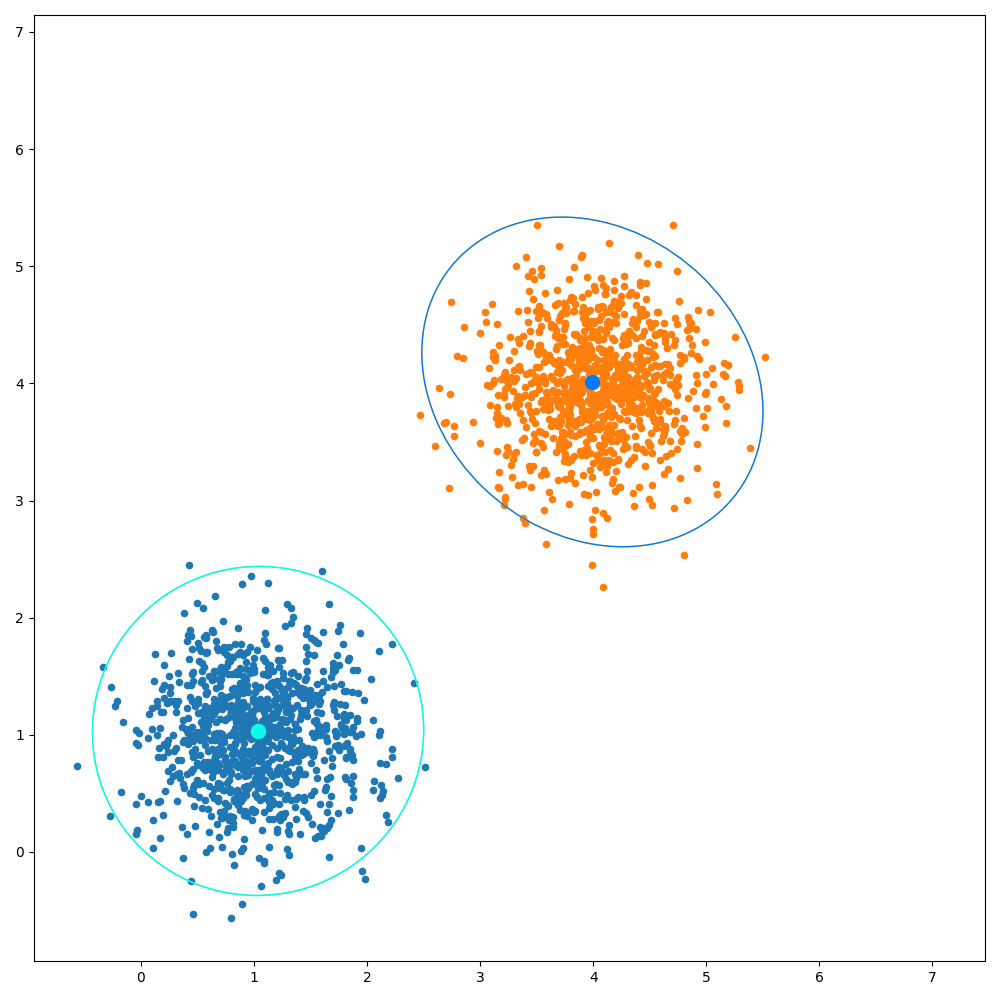
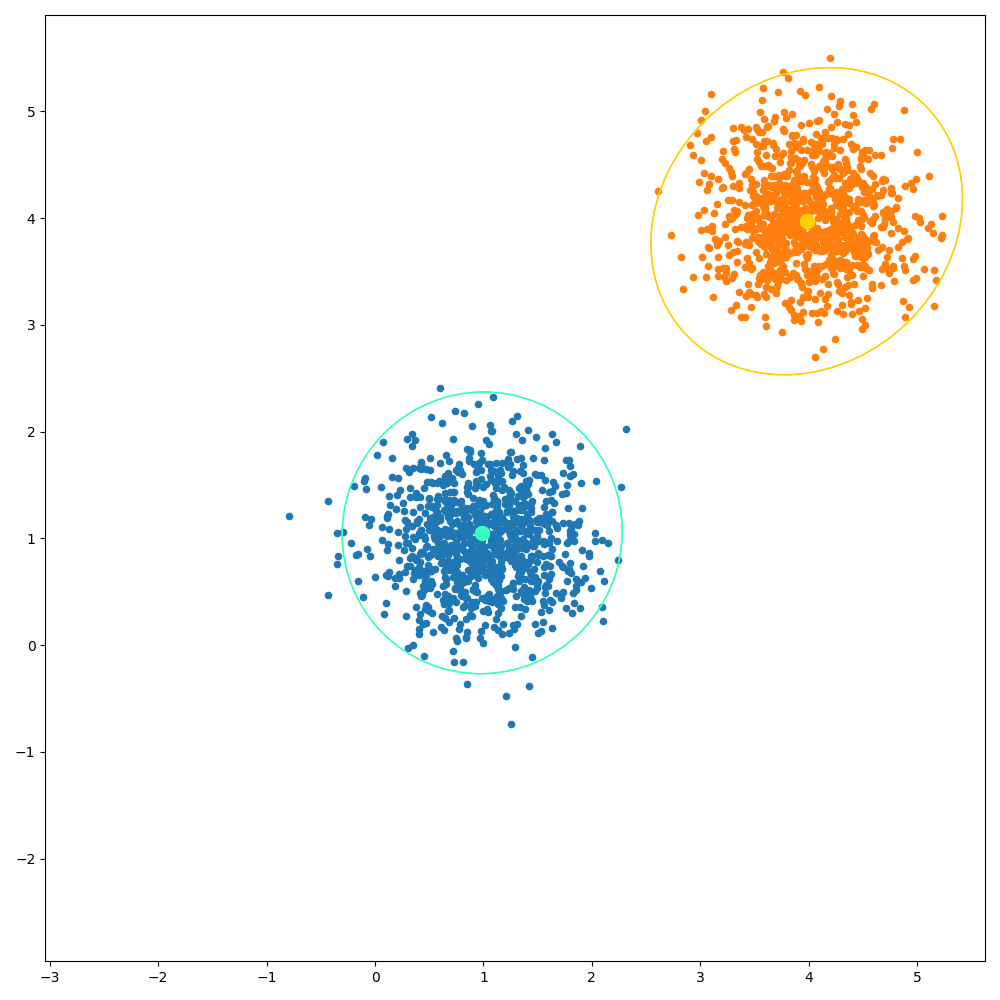
commit before Christmas break. Better utils and (dirtly) fixing import issues.

diff --git a/src/gmm.py b/src/gmm.py
@@ -11,8 +11,15 @@ import numpy as np
 import matplotlib.pyplot as plt
 
 from scipy.stats import multivariate_normal
-from typing import List, Tuple, Dict
-from utils import modify_covariance_matrix, plot_gaussians, generate_clustered_data, create_gif, remove_gaussian
+from typing import List, Tuple, Dict, Union
+
+# or runs python -m src.gmm
+if __package__ is None or __package__ == '':
+    # uses current directory visibility
+    from utils import modify_covariance_matrix, plot_gaussians, generate_clustered_data, create_gif, remove_gaussian
+else:
+    # uses current package visibility
+    from .utils import modify_covariance_matrix, plot_gaussians, generate_clustered_data, create_gif, remove_gaussian
 
 
 class GMM():
@@ -35,7 +42,8 @@ class GMM():
     def initialize(self, data: np.ndarray):
         '''
         Sets the different attributes of the class.
-        Means are weighted '''
+        Means are weighted.
+        '''
         assert len(data) == self.k
         self.dim: int = data.shape[1]
         self.coefficients: np.ndarray = np.ones(self.k) / self.k
@@ -70,7 +78,7 @@ class GMM():
         return coefficients, cs_means, cs_squares
 
 
-    def online_EM(self, states: List[np.ndarray], gamma: float, permute: bool = False):
+    def online_EM(self, states: Union[np.ndarray, List[np.ndarray]], gamma: float, permute: bool = False):
         if permute:
             states = self.rng.permutation(states)
 
@@ -91,8 +99,10 @@ class GMM():
 
     def save(self, filepath: str):
         filepath = filepath.split('.json')[0]
+        configuration = dict()
         # attributes
-        configuration = {p: p for p in [self.k, self.random_seed]}
+        configuration['k'] = self.k
+        configuration['random_seed'] = self.random_seed
         # along with the initial random seed and the states of the two random generators
         configuration['random_state'] = self.rng.bit_generator.state
         configuration['normal_state'] = self.normal.random_state.bit_generator.state
@@ -105,6 +115,31 @@ class GMM():
 
         with open(filepath + '_config.json', 'w') as f:
             f.write(json.dumps(configuration))
+
+
+    def _load_dict(self, configuration: Dict):
+        self.k = configuration['k']
+        self.random_seed = configuration['random_seed']
+
+        self.rng: np.random.Generator = np.random.default_rng(self.random_seed)
+        self.rng.bit_generator.state = configuration['random_state']
+        self.normal = multivariate_normal
+        self.normal.random_state = np.random.default_rng(self.random_seed)
+        self.normal.random_state.bit_generator.state = configuration['normal_state']
+
+        self.coefficients = np.array(configuration['mixing_coefficients'])
+        self.means = np.array(configuration['means'])
+        self.covariances = np.array(configuration['covariances'])
+        self.cs_means = np.array(configuration['cs_means'])
+        self.cs_squares = np.array(configuration['cs_squares'])
+
+
+    def load(self, filepath: str):
+        filepath = filepath.split('.json')[0] + '.json'
+        assert os.path.isfile(filepath)
+        with open(filepath, 'r') as f:
+            config = json.load(f)
+        self._load_dict(config)
 
 
     def log_likelihood(self, data: np.ndarray):
@@ -120,12 +155,14 @@ class GMM():
                 log_likelihoods.append(np.log(tmp))
             return sum(log_likelihoods)
 
-    def gmm(self, state: np.ndarray):
-        total = 0.0
-        for i in range(self.k):
-            total += self.coefficients[i] * self.normal.pdf(state, mean=self.means[i], cov=self.covariances[i])
-        return total
 
+    def gmm(self, state: np.ndarray, add_offset: bool = True) -> np.ndarray:
+        pdf = np.zeros(self.k)
+        for i in range(self.k):
+            pdf[i] = self.coefficients[i] * self.normal.pdf(state, mean=self.means[i], cov=self.covariances[i])
+        if add_offset:
+            pdf += 1e-5
+        return pdf
 
 
 class CoverageModel():
@@ -146,32 +183,58 @@ class CoverageModel():
         self.GMM_c = GMM(self.random_seed, k)
 
 
+    def _concatenate_states(self, states: Union[np.ndarray, List[np.ndarray]], n: int = None) -> np.ndarray:
+        if n is None:
+            n = len(states)
+        else:
+            assert n > 1 and (n < len(states) - 1)
+        return np.array([np.hstack([states[i], states[i+1]] for i in range(n))])
+
+
     def initialize(self, states: List[np.ndarray]):
         '''Initializes the GMMs\' parameters and the CS statistics.'''
         assert len(states) == self.k + 1
 
         self.GMM_s.initialize(np.array(states))
-        states_concatenated = np.array([np.hstack([states[i], states[i+1]] for i in range(self.k))])
+        states_concatenated = self._concatenate_states(states, n=self.k)
         print(f'concatenated states of shape {states_concatenated.shape}')
         self.GMM_c.initialize(states_concatenated)
 
 
-
-    def sequence_freshness(self, state_sequence: List[np.ndarray], tau: float):
+    def sequence_freshness_sheer(self, state_sequence: List[np.ndarray], tau: float):
         first_state = state_sequence[0]
-        density = self.GMM_s.gmm(first_state)
-
+        density = self.GMM_s.gmm(first_state, add_offset=True)
         # indices are shifted compared to the definition
         for i in range(1, len(state_sequence)):
-            density *= (self.GMM_s.gmm(state_sequence[i]) / self.GMM_c.gmm(np.hstack([state_sequence[i-1], state_sequence[i]])))
+            density *= (self.GMM_s.gmm(state_sequence[i], add_offset=True) / self.GMM_c.gmm(np.hstack([state_sequence[i-1], state_sequence[i]]), add_offset=True))
 
         if density < tau:
             print('updating parameters...')
             self.dynamic_EM(state_sequence)
 
 
+    def sequence_freshness(self, states: np.ndarray, states_cond: np.ndarray):
+        '''Returns, in order, the density of the state sequence, the pdf of the states and the pdf of the concatenated states.'''
+        first_state = states[0]
+        first_state_pdf = self.GMM_s.gmm(first_state, add_offset=True)
+        density = np.sum(first_state_pdf)
+
+        # states
+        states_pdf = np.zeros((states.shape[0], self.k))
+        for i in range(states.shape[0]):
+           states_pdf[i] = self.GMM_s.gmm(states[i], add_offset=True)
+        # concatenated states
+        states_cond_pdf = np.zeros((states_cond.shape[0], self.k))
+        for i in range(states_cond.shape[0]):
+            states_cond_pdf[i] = self.GMM_c.gmm(states_cond[i], add_offset=True)
+            # density *= np.min([np.sum(states_cond_pdf[i]) / np.sum(states_pdf[i]), 1.0])
+            density *= (np.sum(states_cond_pdf[i]) / np.sum(states_pdf[i]))
+        return density, states_pdf, states_cond_pdf
+
+
+
     def dynamic_EM(self, state_sequence: List[np.ndarray]):
-        states_concatenated = np.array([np.hstack([state_sequence[i], state_sequence[i+1]] for i in range(len(state_sequence)))])
+        states_concatenated = self._concatenate_states(state_sequence)
 
         self.GMM_s.online_EM(state_sequence, self.gamma)
         self.GMM_c.online_EM(states_concatenated, self.gamma)
@@ -184,7 +247,6 @@ class CoverageModel():
 
 
 
-
 if __name__ == '__main__':
     test_rng: np.random.Generator = np.random.default_rng(0)
     k = 2
@@ -193,7 +255,7 @@ if __name__ == '__main__':
         [1, 1],
         [4, 4],
     ]
-    initial_data, fig, ax = generate_clustered_data(dim, k, cluster_means, num_points_per_cluster=1000, plot=True, spread_factor=0.05)
+    initial_data, fig, ax = generate_clustered_data(dim, k, cluster_means, num_points_per_cluster=1000, plot=True, spread_factor=0.05, rng=test_rng)
     shuffle_data = test_rng.permutation(initial_data)
     gmm_init_data = shuffle_data[:k]
     gmm = GMM(0, 2)
@@ -219,6 +281,11 @@ if __name__ == '__main__':
         plot_gaussians(gmm.means, gmm.covariances, ax, cmap_values=[0.42, 0.69])
         fig.savefig(f'imgs/iteration_{i}.png')
 
-    plot_gaussians(gmm.means, gmm.covariances, ax)
+    plot_gaussians(gmm.means, gmm.covariances, ax, cmap_values=[0.42, 0.69])
     fig.savefig('test_gmm.png')
-    create_gif('imgs', 'test_gmm.gif', duration=350)
+    create_gif('imgs', 'test_gmm.gif', duration=400)
+    gmm.save('test_save')
+    print(f'{gmm.log_likelihood(shuffle_data)}')
+    gmm2 = GMM(0, 2)
+    gmm2.load('test_save_config')
+    print(f'{gmm2.log_likelihood(shuffle_data)}')

diff --git a/tests/test_gmm.py b/tests/test_gmm.py
@@ -2,14 +2,14 @@ import pytest
 import copy
 import numpy as np
 
-import src.gmm as gmm
-from src.utils import plot_gaussians, generate_clustered_data
-
+from src.utils import plot_gaussians, generate_clustered_data, remove_gaussian
+from src.gmm import GMM
 
 @pytest.fixture(scope='module')
 def input_data():
     k = dim = 2
     means = [[1, 1], [4, 4]]
+    cmap_values = [0.25, 0.55]
     test_rng: np.random.Generator = np.random.default_rng(42)
     initial_data, fig, ax = generate_clustered_data(
         dim,
@@ -17,9 +17,10 @@ def input_data():
         means,
         num_points_per_cluster=1000,
         plot=True,
-        spread_factor=0.05
+        spread_factor=0.05,
+        rng=test_rng
     )
-    gmm = gmm.GMM(0, k)
+    gmm = GMM(0, k)
     test_data = {
         'k': k,
         'dim': dim,
@@ -29,7 +30,8 @@ def input_data():
         'rng': test_rng,
         'initial_data': initial_data,
         'fig': fig,
-        'ax': ax
+        'ax': ax,
+        'colors': cmap_values
     }
 
     return test_data
@@ -39,7 +41,7 @@ def input_data():
 def test_initialize(input_data):
     rng = input_data['rng']
     data_shuffled = rng.permutation(input_data['initial_data'])
-    gmm: gmm.GMM = input_data['gmm']
+    gmm: GMM = input_data['gmm']
     gmm.initialize(data_shuffled[:input_data['k']])
 
     assert True
@@ -47,7 +49,9 @@ def test_initialize(input_data):
     # dirty
     fig = input_data['fig']
     ax = fig.get_axes()[0]
-    plot_gaussians(gmm.means, gmm.covariances, ax)
+    plot_gaussians(gmm.means, gmm.covariances, ax, cmap_values=input_data['colors'])
+    ax.set_xlim(ax.get_xlim())
+    ax.set_ylim(ax.get_ylim())
     fig.savefig('imgs/test_initialize.png')
 
 
@@ -55,7 +59,7 @@ def test_initialize(input_data):
 def test_online_gmm(input_data):
     rng = input_data['rng']
     data_shuffled = rng.permutation(input_data['initial_data'])
-    gmm: gmm.GMM = input_data['gmm']
+    gmm: GMM = input_data['gmm']
     ll = [gmm.log_likelihood(data_shuffled)]
 
     m = len(data_shuffled)
@@ -65,7 +69,7 @@ def test_online_gmm(input_data):
     for _ in range(10):
         samples = data_shuffled[rng.choice(m, size=batch_size)]
         before = gmm.log_likelihood(samples)
-        gmm.online_gmm(samples, gamma=gamma)
+        gmm.online_EM(samples, gamma=gamma)
         after = gmm.log_likelihood(samples)
         assert before < after
         ll.append(gmm.log_likelihood(data_shuffled))
@@ -73,7 +77,8 @@ def test_online_gmm(input_data):
     # dirty
     fig = input_data['fig']
     ax = fig.get_axes()[0]
-    plot_gaussians(gmm.means, gmm.covariances, ax)
+    remove_gaussian(ax)
+    plot_gaussians(gmm.means, gmm.covariances, ax, cmap_values=input_data['colors'])
     fig.savefig('imgs/test_online_gmm.png')
 
 

diff --git a/src/utils.py b/src/utils.py
@@ -59,6 +59,7 @@ def generate_clustered_data(
     cluster_means: Union[np.ndarray, list],
     num_points_per_cluster: int = 100,
     spread_factor: float = 0.1,
+    rng: np.random.Generator = np.random.default_rng(),
     plot: bool = False,
     legend: bool = False
 ) -> Tuple[np.ndarray, Union[plt.Figure, None], Union[plt.Axes, None]]:
@@ -81,6 +82,9 @@ def generate_clustered_data(
 
     spread_factor : float, optional
         Spread factor determining the spread of clusters. Defaults to 0.1.
+
+    rng : np.random.Generator, optional
+        The random generator to sample data. Defaults to the default numpy generator.
 
     plot : bool, optional
         Whether to plot the generated data. Defaults to False.
@@ -105,7 +109,7 @@ def generate_clustered_data(
 
     data = []
     for i in range(num_clusters):
-        cluster_data = np.random.multivariate_normal(mean=cluster_means[i], cov=covariances[i*(num_clusters-1)//2], size=num_points_per_cluster)
+        cluster_data = rng.multivariate_normal(mean=cluster_means[i], cov=covariances[i*(num_clusters-1)//2], size=num_points_per_cluster)
         data.append(cluster_data)
 
     generated_data = np.concatenate(data)
@@ -248,3 +252,32 @@ def create_gif(folder_path: str, output_gif_name: str = 'output.gif', duration: 
         duration=duration,
         loop=0
     )
+
+def plot_points(ax, data: Union[np.ndarray, List[np.ndarray]], **kwargs):
+    '''
+        Plots a line with markers along it on a given axis.
+
+    Parameters:
+    -----------
+    ax : matplotlib.axes.Axes
+        The axis on which the Gaussians will be plotted.
+
+    data : Union[np.ndarray, list]
+        The points to plot.
+
+     **kwargs: Additional keyword arguments.
+        - color (str, optional): The color for the line and the markers. Default to blue.
+        - step (int, optional): The step for the x ticks. Default to 1.
+    Returns:
+    --------
+    matplotlib.axes.Axes
+        The axis containing the plotted data.
+    '''
+    color = kwargs.get('color', 'blue')
+    step = kwargs.get('step', 1)
+    x = np.arange(len(data))
+    ax.plot(x, data, color=color)
+    for j, l in enumerate(data):
+        ax.plot(j, l, marker='o', markersize=8, markeredgecolor=color, markerfacecolor=color)
+    ax.set_xticks(x, step=step)
+    return ax
